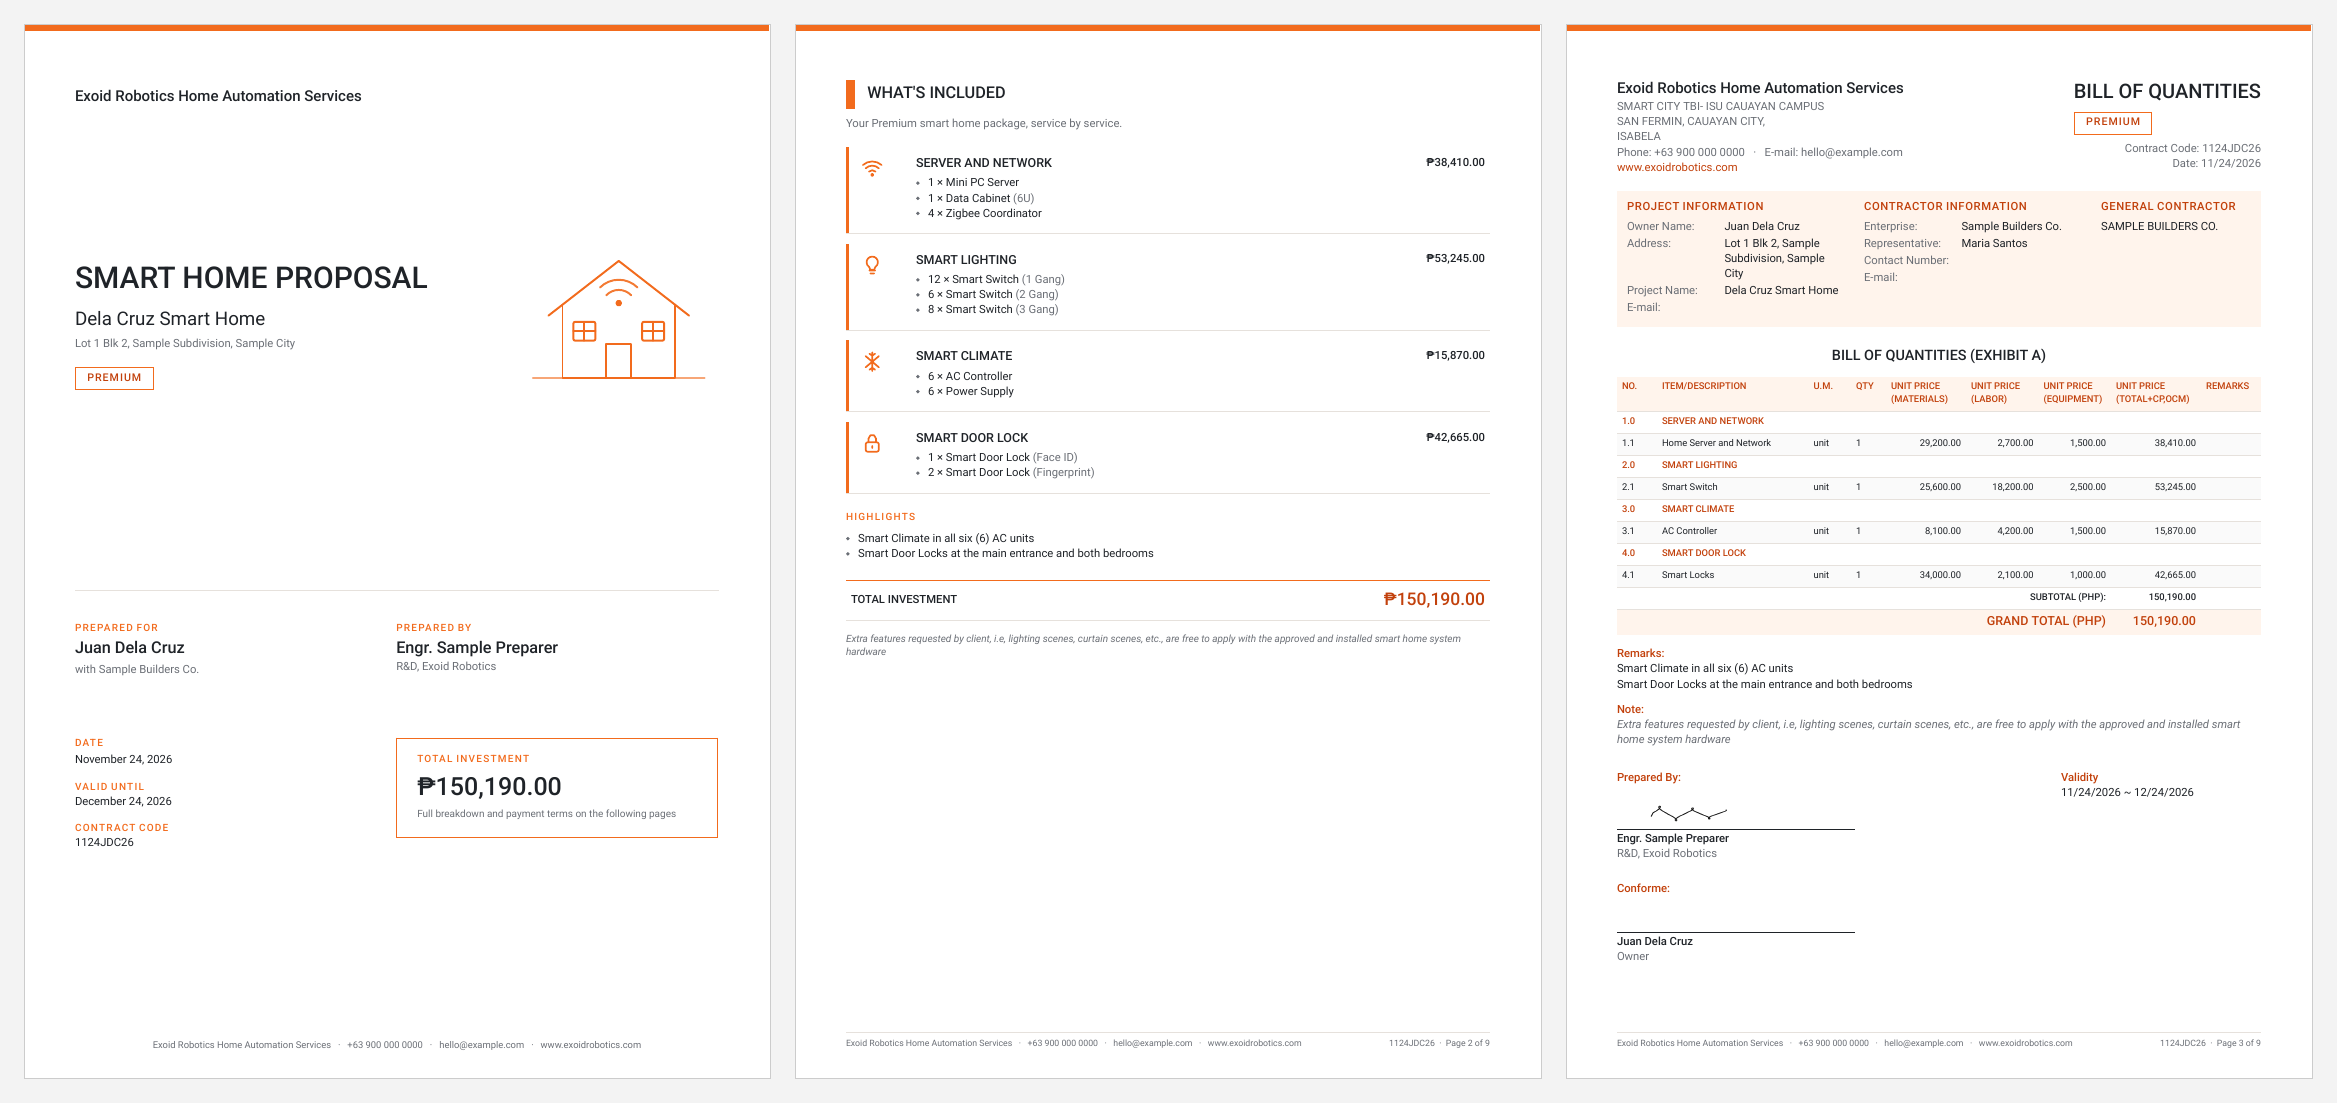
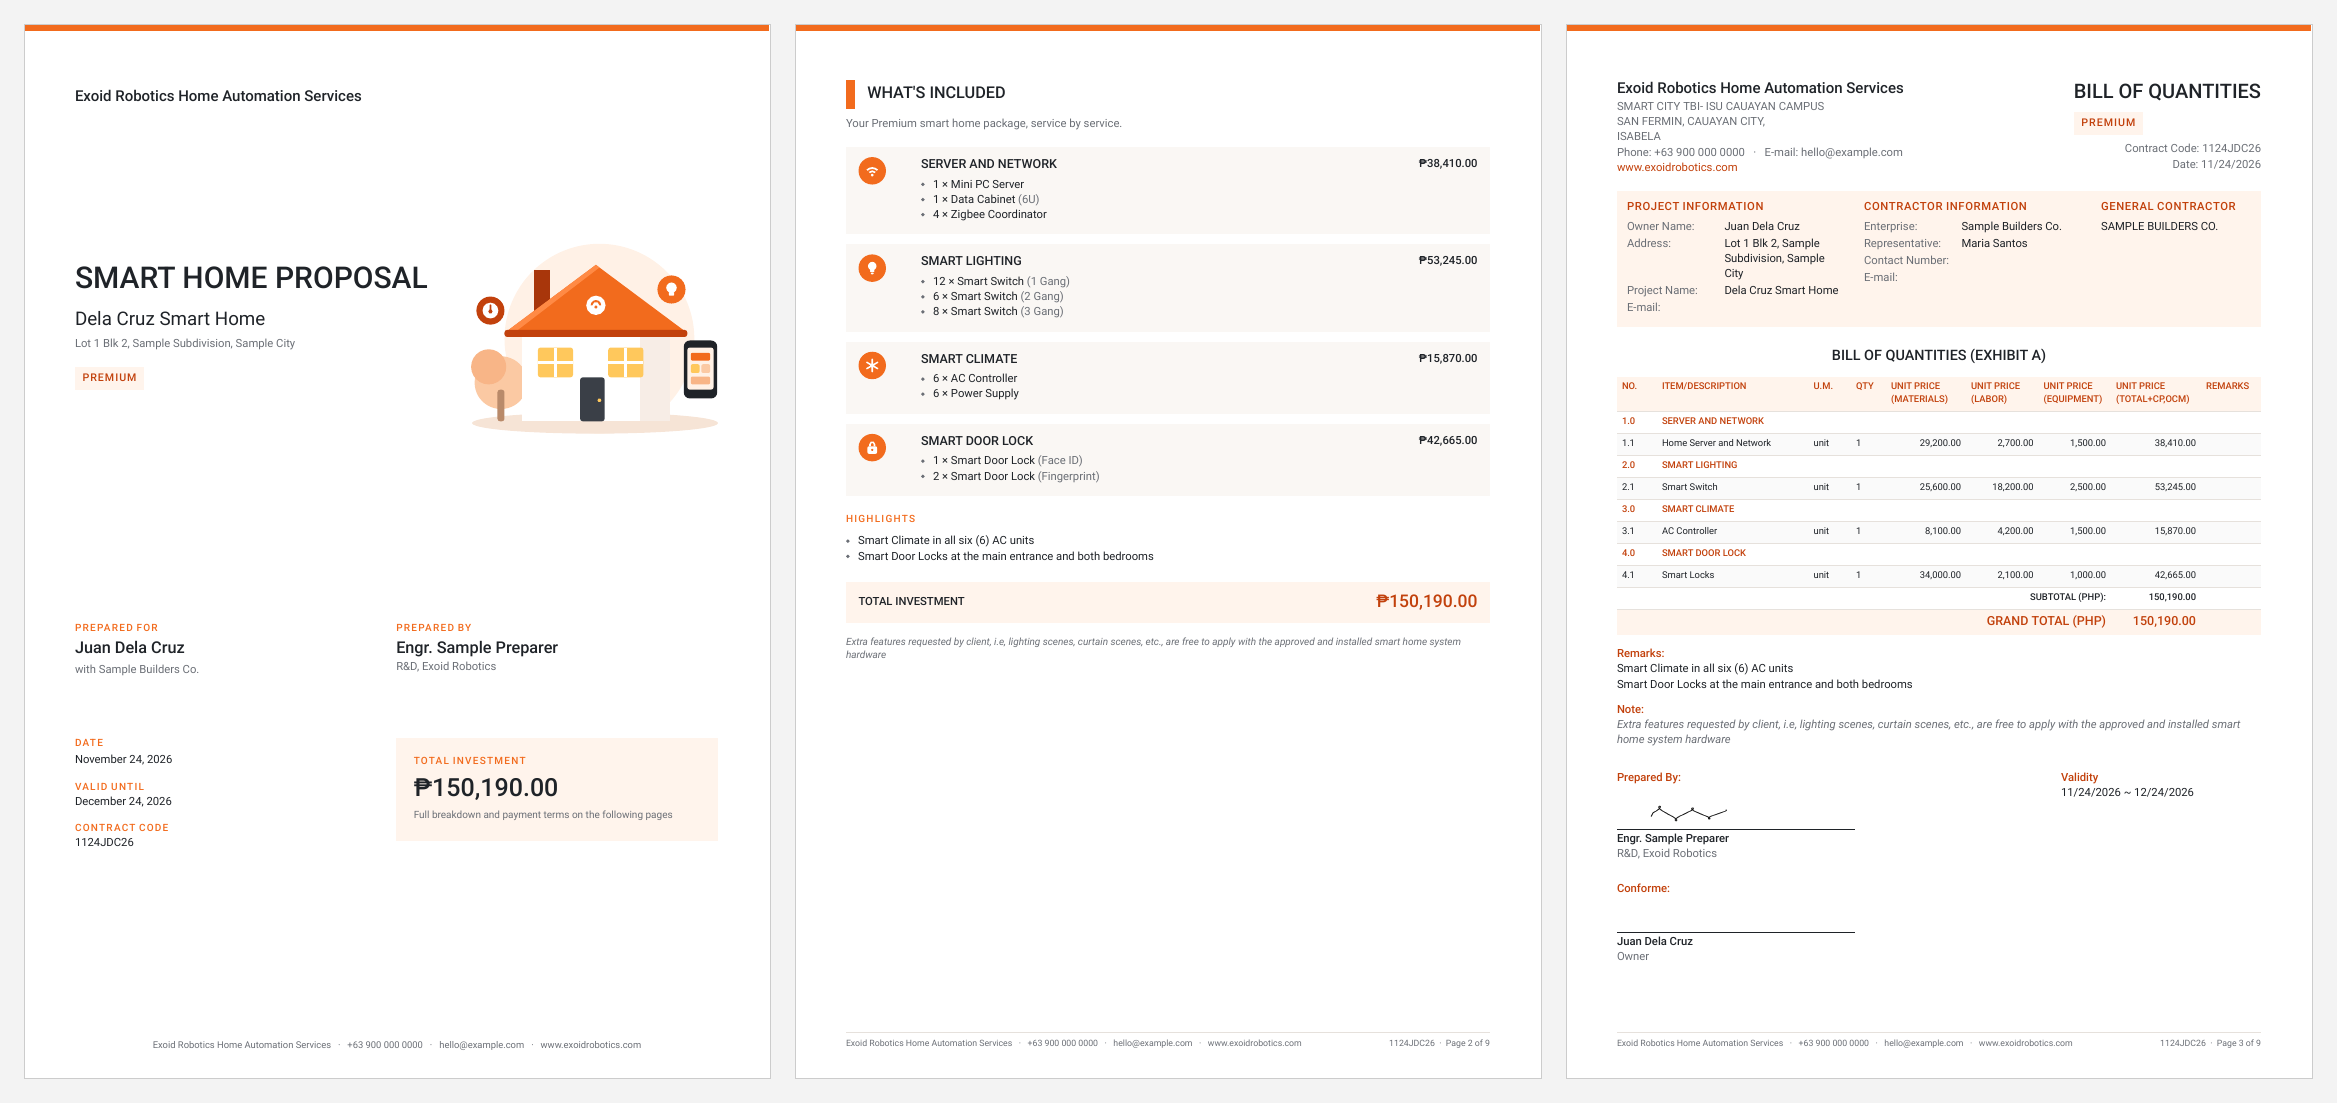
style: filled vector graphics instead of line art; soft blocks instead of outlines
- cover: flat filled illustration (lit house, phone, devices)
- service icons: white solid glyphs on orange round badges
- tier label, total box and service cards are soft filled blocks; cover divider removed

diff --git a/src/pdf.js b/src/pdf.js
@@ -34,21 +34,23 @@ const TABLE = {
 };
 const th = t => ({ text: t, style: 'th' });
 
-// ---------- icons (24×24 line icons, stroke color filled in) ----------
+// ---------- graphics: filled flat vectors (no strokes) ----------
+// Service icons: white solid glyphs (24×24) on an orange round badge.
+const W = '#FFFFFF';
 const ICONS = {
-  bulb: '<path d="M9 18h6M10 21h4M12 3a6 6 0 0 0-3.5 10.9c.6.5 1 1.2 1 2V17h5v-1.1c0-.8.4-1.5 1-2A6 6 0 0 0 12 3z"/>',
-  climate: '<path d="M12 2v20M4.9 6l14.2 12M4.9 18L19.1 6M9 3.5l3 2 3-2M9 20.5l3-2 3 2"/>',
-  lock: '<rect x="5" y="11" width="14" height="10" rx="2"/><path d="M8 11V7a4 4 0 0 1 8 0v4M12 15v2"/>',
-  camera: '<path d="M3 7h12l3 3h3v4h-3l-3 3H3z"/><circle cx="9" cy="12" r="2.5"/>',
-  wifi: '<path d="M2 8.5a15 15 0 0 1 20 0M5 12a10 10 0 0 1 14 0M8.5 15.5a5 5 0 0 1 7 0"/><circle cx="12" cy="19" r="1"/>',
-  curtain: '<path d="M3 3h18M5 3v18M19 3v18M5 3c0 6 4 9 6 18M19 3c0 6-4 9-6 18"/>',
-  gate: '<path d="M3 21V5M21 21V5M3 9h18M3 15h18M8 9v12M13 9v12M18 9v12"/>',
-  shield: '<path d="M12 3l8 3v6c0 5-3.5 8-8 9-4.5-1-8-4-8-9V6z"/><path d="M9 12l2 2 4-4"/>',
-  mic: '<rect x="9" y="3" width="6" height="11" rx="3"/><path d="M5 11a7 7 0 0 0 14 0M12 18v3M9 21h6"/>',
-  panel: '<rect x="4" y="3" width="16" height="18" rx="2"/><path d="M8 7h8M8 11h8M8 15h4"/>',
-  film: '<rect x="4" y="3" width="16" height="18" rx="1"/><path d="M12 3v18M4 12h16"/>',
-  tools: '<path d="M14.7 6.3a4 4 0 0 0-5.4 5.4L3 18l3 3 6.3-6.3a4 4 0 0 0 5.4-5.4l-2.5 2.5-2.4-.6-.6-2.4z"/>',
-  house: '<path d="M3 11l9-8 9 8M5 9.5V21h14V9.5M10 21v-6h4v6"/>',
+  bulb: `<circle cx="12" cy="9" r="6.2" fill="${W}"/><rect x="9" y="14.5" width="6" height="3.2" rx="1" fill="${W}"/><rect x="10" y="18.6" width="4" height="2.4" rx="1.2" fill="${W}"/>`,
+  climate: `<g fill="${W}"><rect x="10.9" y="2" width="2.2" height="20" rx="1.1"/><rect x="10.9" y="2" width="2.2" height="20" rx="1.1" transform="rotate(60 12 12)"/><rect x="10.9" y="2" width="2.2" height="20" rx="1.1" transform="rotate(-60 12 12)"/><circle cx="12" cy="12" r="3.2"/></g>`,
+  lock: `<g fill="${W}"><rect x="5" y="10" width="14" height="11" rx="2.2"/><path d="M7.6 10V7.2a4.4 4.4 0 0 1 8.8 0V10h-2.4V7.2a2 2 0 0 0-4 0V10z"/></g><circle cx="12" cy="15.2" r="1.6" fill="#F26B1D"/>`,
+  camera: `<path d="M2.5 7.5h11.5l4 3.2h3.5v3.6H18l-4 3.2H2.5z" fill="${W}"/><circle cx="8.5" cy="12.5" r="2.6" fill="#F26B1D"/>`,
+  wifi: `<g fill="${W}"><path d="M3.5 10.2a12 12 0 0 1 17 0l-1.8 1.8a9.5 9.5 0 0 0-13.4 0z"/><path d="M6.8 13.5a7.4 7.4 0 0 1 10.4 0l-1.8 1.8a4.9 4.9 0 0 0-6.8 0z"/><circle cx="12" cy="18.2" r="2"/></g>`,
+  curtain: `<g fill="${W}"><rect x="3" y="3" width="18" height="2.4" rx="1.2"/><path d="M4.5 5.4h6.5c0 6-2.2 11.3-6.5 15.6z"/><path d="M19.5 5.4H13c0 6 2.2 11.3 6.5 15.6z"/></g>`,
+  gate: `<g fill="${W}"><rect x="3" y="4" width="2.6" height="17" rx="1"/><rect x="18.4" y="4" width="2.6" height="17" rx="1"/><rect x="3" y="7" width="18" height="2.4"/><rect x="7.6" y="9" width="2" height="12"/><rect x="11" y="9" width="2" height="12"/><rect x="14.4" y="9" width="2" height="12"/></g>`,
+  shield: `<path d="M12 2.2l8.2 3.1v6.1c0 5.4-3.5 9-8.2 10.9-4.7-1.9-8.2-5.5-8.2-10.9V5.3z" fill="${W}"/><path d="M10.6 15.2l-3-3 1.6-1.6 1.4 1.4 4.2-4.2 1.6 1.6z" fill="#F26B1D"/>`,
+  mic: `<g fill="${W}"><rect x="8.8" y="2" width="6.4" height="12.4" rx="3.2"/><path d="M5 11h2.2a4.8 4.8 0 0 0 9.6 0H19a7 7 0 0 1-5.9 6.9V20h3v2.2H7.9V20h3v-2.1A7 7 0 0 1 5 11z"/></g>`,
+  panel: `<rect x="4" y="2.5" width="16" height="19" rx="2.4" fill="${W}"/><g fill="#F26B1D"><rect x="7" y="6" width="10" height="2.2" rx="1"/><rect x="7" y="10.2" width="10" height="2.2" rx="1"/><circle cx="12" cy="17" r="1.8"/></g>`,
+  film: `<rect x="4" y="3" width="16" height="18" rx="1.6" fill="${W}"/><g fill="#F26B1D"><rect x="11.1" y="3" width="1.8" height="18"/><rect x="4" y="11.1" width="16" height="1.8"/></g>`,
+  tools: `<path d="M21 7.6a5.4 5.4 0 0 1-7.4 5L6.4 19.8a2.1 2.1 0 0 1-3-3l7.2-7.2A5.4 5.4 0 0 1 17.4 2.6l-3.1 3.1.9 2.9 2.9.9z" fill="${W}"/>`,
+  house: `<path d="M12 2.8l9.4 8.3H19v9.9h-5.2v-6.2h-3.6V21H5v-9.9H2.6z" fill="${W}"/>`,
 };
 const ICON_RULES = [
   [/light|switch|lamp/i, 'bulb'], [/climate|aircon|\bac\b|hvac/i, 'climate'], [/lock|door/i, 'lock'],
@@ -57,17 +59,31 @@ const ICON_RULES = [
   [/panel|control|tablet|screen/i, 'panel'], [/film|glass|window/i, 'film'], [/wiring|electrical|requirement|condition|assessment/i, 'tools'],
 ];
 const iconFor = title => ICON_RULES.find(([re]) => re.test(title))?.[1] ?? 'house';
-const icon = (name, color, size) => ({
-  svg: `<svg xmlns="http://www.w3.org/2000/svg" width="24" height="24" viewBox="0 0 24 24" fill="none" stroke="${color}" stroke-width="1.8" stroke-linecap="round" stroke-linejoin="round">${ICONS[name]}</svg>`,
+const icon = (name, size) => ({
+  svg: `<svg xmlns="http://www.w3.org/2000/svg" width="24" height="24" viewBox="0 0 24 24"><circle cx="12" cy="12" r="12" fill="#F26B1D"/><g transform="translate(4.8 4.8) scale(0.6)">${ICONS[name]}</g></svg>`,
   width: size,
 });
 
-const HOUSE_ART = `<svg xmlns="http://www.w3.org/2000/svg" width="240" height="200" viewBox="0 0 240 200" fill="none" stroke="#F26B1D" stroke-width="2.5" stroke-linecap="round" stroke-linejoin="round">
-  <path d="M30 100 L120 30 L210 100"/><path d="M48 86 V180 H192 V86"/><path d="M104 180 V136 H136 V180"/>
-  <rect x="62" y="108" width="28" height="24" rx="2"/><rect x="150" y="108" width="28" height="24" rx="2"/>
-  <path d="M76 108 V132 M62 120 H90 M164 108 V132 M150 120 H178"/>
-  <path d="M96 64 a34 34 0 0 1 48 0" opacity=".9"/><path d="M104 74 a22 22 0 0 1 32 0" opacity=".9"/><circle cx="120" cy="84" r="3" fill="#F26B1D"/>
-  <path d="M10 180 H230" opacity=".6"/>
+// Cover illustration: a lit smart home with a phone and connected devices, flat filled shapes only.
+const HOUSE_ART = `<svg xmlns="http://www.w3.org/2000/svg" width="320" height="240" viewBox="0 0 320 240">
+  <circle cx="170" cy="118" r="108" fill="#FFF1E6"/>
+  <ellipse cx="165" cy="214" rx="140" ry="12" fill="#F6E4D6"/>
+  <circle cx="58" cy="168" r="30" fill="#FBC9A3"/><circle cx="44" cy="150" r="20" fill="#F8B587"/><rect x="54" y="176" width="8" height="36" rx="3" fill="#B98A6A"/>
+  <rect x="96" y="40" width="18" height="56" fill="#A8360B"/>
+  <rect x="82" y="104" width="168" height="108" fill="#FFFFFF"/>
+  <rect x="216" y="104" width="34" height="108" fill="#F7EDE6"/>
+  <path d="M64 110 L166 34 L268 110 Z" fill="#F26B1D"/>
+  <path d="M64 110 L166 34 L170 37 L72 112 Z" fill="#FF8A45"/>
+  <rect x="62" y="108" width="208" height="8" rx="3" fill="#C2410C"/>
+  <rect x="100" y="128" width="40" height="34" rx="3" fill="#FFC85C"/><rect x="118.5" y="128" width="3" height="34" fill="#FFFFFF"/><rect x="100" y="143.5" width="40" height="3" fill="#FFFFFF"/>
+  <rect x="180" y="128" width="40" height="34" rx="3" fill="#FFC85C"/><rect x="198.5" y="128" width="3" height="34" fill="#FFFFFF"/><rect x="180" y="143.5" width="40" height="3" fill="#FFFFFF"/>
+  <rect x="148" y="162" width="28" height="50" rx="3" fill="#3A3F47"/><circle cx="170" cy="188" r="2.2" fill="#FFC85C"/>
+  <circle cx="166" cy="80" r="11" fill="#FFFFFF"/><path d="M160 80 a6 6 0 0 1 12 0 l-2 0 a4 4 0 0 0 -8 0 z" fill="#F26B1D"/><circle cx="166" cy="82" r="1.8" fill="#F26B1D"/>
+  <g transform="translate(266 120)"><rect x="0" y="0" width="38" height="66" rx="7" fill="#1F2328"/><rect x="4" y="8" width="30" height="48" rx="3" fill="#FFF1E6"/>
+    <rect x="8" y="14" width="22" height="9" rx="2" fill="#F26B1D"/><rect x="8" y="27" width="10" height="10" rx="2" fill="#FFC85C"/><rect x="20" y="27" width="10" height="10" rx="2" fill="#FBC9A3"/>
+    <rect x="8" y="41" width="22" height="9" rx="2" fill="#F8B587"/></g>
+  <g transform="translate(236 46)"><circle cx="16" cy="16" r="16" fill="#F26B1D"/><circle cx="16" cy="14" r="6" fill="#FFFFFF"/><rect x="13" y="19" width="6" height="4" rx="1" fill="#FFFFFF"/></g>
+  <g transform="translate(30 70)"><circle cx="16" cy="16" r="16" fill="#C2410C"/><circle cx="16" cy="16" r="9" fill="#FFFFFF"/><rect x="15" y="9" width="2" height="8" rx="1" fill="#C2410C"/><circle cx="16" cy="17" r="2.4" fill="#C2410C"/></g>
 </svg>`;
 
 // ---------- shared blocks ----------
@@ -111,11 +127,10 @@ function header(q, settings, title) {
 }
 const arr = v => (Array.isArray(v) ? v : []);
 
-// Outlined label, e.g. the tier name.
-const OUTLINE = { hLineWidth: () => 0.8, vLineWidth: () => 0.8, hLineColor: () => C.orange, vLineColor: () => C.orange };
+// Soft filled label, e.g. the tier name.
 const pill = (text, alignment = 'left') => ({
-  table: { body: [[{ text, bold: true, fontSize: 8.5, color: C.deep, characterSpacing: 0.8, margin: [5, 0.5, 5, 0.5] }]] },
-  layout: OUTLINE, alignment, margin: [0, 4, 0, 0],
+  table: { body: [[{ text, bold: true, fontSize: 8.5, color: C.deep, fillColor: C.soft, characterSpacing: 0.8, margin: [6, 1.5, 6, 1.5] }]] },
+  layout: 'noBorders', alignment, margin: [0, 4, 0, 0],
   ...(alignment === 'right' ? { width: 'auto' } : {}),
 });
 
@@ -155,7 +170,7 @@ function coverPage(q, settings, totals) {
     { text: s(q.client.project) || 'Smart Home', fontSize: 15, color: C.ink, margin: [0, 0, 200, 3] },
     { text: s(q.client.address), color: C.muted, margin: [0, 0, 220, 8] },
     pill(s(q.tierName).toUpperCase()),
-    { svg: HOUSE_ART, width: 150, absolutePosition: { x: 400, y: 170 } },
+    { svg: HOUSE_ART, width: 225, absolutePosition: { x: 340, y: 168 } },
     // Lower half sits on the white part of the cover at a fixed spot, whatever the title length.
     {
       absolutePosition: { x: 40, y: 478 },
@@ -185,8 +200,8 @@ function coverPage(q, settings, totals) {
           stack: [{ text: 'TOTAL INVESTMENT', style: 'kicker' },
             { text: peso(totals.grandTotal), color: C.ink, bold: true, fontSize: 20, margin: [0, 2, 0, 2] },
             { text: 'Full breakdown and payment terms on the following pages', color: C.muted, fontSize: 8 }],
-          margin: [12, 10, 12, 10],
-        }]] }, layout: OUTLINE },
+          margin: [14, 12, 14, 12], fillColor: C.soft,
+        }]] }, layout: 'noBorders' },
       ],
     },
   ];
@@ -213,12 +228,12 @@ function includedPage(q, settings, totals) {
     return {
       unbreakable: true, margin: [0, 0, 0, 8],
       table: { widths: [34, '*', 90], body: [[
-        { ...icon(iconFor(svc.title), C.orange, 18), margin: [2, 1, 0, 0] },
+        { ...icon(iconFor(svc.title), 22), margin: [2, 0, 0, 0] },
         { stack: [{ text: s(svc.title), bold: true, fontSize: 10 }, { ul: bullets, markerColor: C.muted, color: C.ink, margin: [0, 3, 0, 0] }] },
         { text: peso(total), alignment: 'right', bold: true, color: C.ink },
       ]] },
-      layout: { hLineWidth: (i, node) => (i === node.table.body.length ? 0.5 : 0), hLineColor: () => C.line, vLineWidth: i => (i === 0 ? 2 : 0), vLineColor: () => C.orange,
-        paddingTop: () => 7, paddingBottom: () => 9, paddingLeft: () => 8, paddingRight: () => 4 },
+      layout: { hLineWidth: () => 0, vLineWidth: () => 0, fillColor: () => '#FAF7F4',
+        paddingTop: () => 8, paddingBottom: () => 9, paddingLeft: () => 8, paddingRight: () => 10 },
     };
   });
   const remarks = s(q.remarks).split('\n').map(x => x.trim()).filter(Boolean);
@@ -231,10 +246,10 @@ function includedPage(q, settings, totals) {
     {
       margin: [0, 14, 0, 0], unbreakable: true,
       table: { widths: ['*', 'auto'], body: [[
-        { text: 'TOTAL INVESTMENT', bold: true, color: C.ink, margin: [0, 7, 0, 7] },
-        { text: peso(totals.grandTotal), bold: true, fontSize: 14, color: C.deep, alignment: 'right', margin: [0, 4, 0, 4] },
+        { text: 'TOTAL INVESTMENT', bold: true, color: C.ink, fillColor: C.soft, margin: [10, 8, 0, 8] },
+        { text: peso(totals.grandTotal), bold: true, fontSize: 14, color: C.deep, fillColor: C.soft, alignment: 'right', margin: [0, 5, 10, 5] },
       ]] },
-      layout: { hLineWidth: i => (i === 0 ? 1.2 : 0.5), hLineColor: i => (i === 0 ? C.orange : C.line), vLineWidth: () => 0 },
+      layout: 'noBorders',
     },
     settings.footerNote ? { text: settings.footerNote, italics: true, color: C.muted, fontSize: 8, margin: [0, 10, 0, 0] } : '',
   ];
@@ -318,7 +333,7 @@ function dupaPage(q, svc, p, no, t) {
   body.push(sub(`TOTAL UNIT COST FOR ${name}`, t.total, { bold: true, color: C.deep, fillColor: C.soft }));
   return [
     { text: '', pageBreak: 'before' },
-    { columnGap: 8, columns: [{ ...icon(iconFor(svc.title), C.orange, 20), width: 20 }, { width: '*', text: `${name}: DETAILED UNIT PRICE ANALYSIS (EXHIBIT B)`, style: 'title2', alignment: 'left', margin: [0, 3, 0, 8] }] },
+    { columnGap: 8, columns: [{ ...icon(iconFor(svc.title), 20), width: 20 }, { width: '*', text: `${name}: DETAILED UNIT PRICE ANALYSIS (EXHIBIT B)`, style: 'title2', alignment: 'left', margin: [0, 3, 0, 8] }] },
     { table: { widths: [70, '*', 30, 120], body: [
       ['PAY ITEM NO.', 'PAY ITEM DESCRIPTION', 'QTY', 'PREREQUISITE'].map(th),
       [no, s(p.description).toUpperCase(), '1', s(p.prerequisite)],
@@ -347,11 +362,8 @@ export function buildDocDefinition(quote, settings) {
       title2: { bold: true, fontSize: 11.5, alignment: 'center', margin: [0, 4, 0, 8], color: C.ink },
       kicker: { fontSize: 8, bold: true, color: C.orange, characterSpacing: 1, margin: [0, 0, 0, 2] },
     },
-    // A thin orange band on every page; the cover adds a rule above its details.
-    background: (page, size) => ({ canvas: [
-      { type: 'rect', x: 0, y: 0, w: size.width, h: 5, color: C.orange },
-      ...(page === 1 ? [{ type: 'line', x1: 40, y1: 452, x2: size.width - 40, y2: 452, lineWidth: 0.6, lineColor: C.line }] : []),
-    ] }),
+    // A thin orange band across the top of every page.
+    background: (page, size) => ({ canvas: [{ type: 'rect', x: 0, y: 0, w: size.width, h: 5, color: C.orange }] }),
     footer: (page, pages) => (page === 1 ? { text: contacts, alignment: 'center', fontSize: 7.5, color: C.muted, margin: [40, 16, 40, 0] } : {
       margin: [40, 10, 40, 0],
       stack: [
